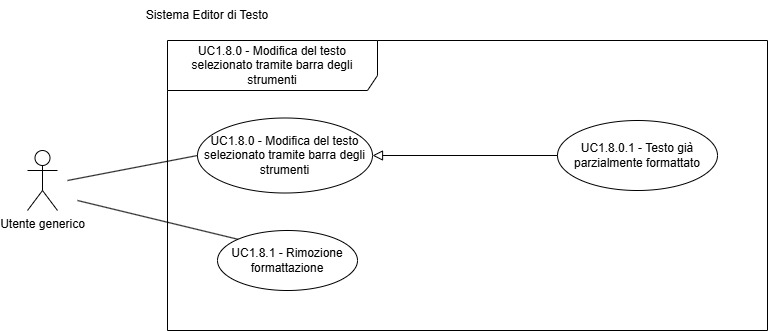
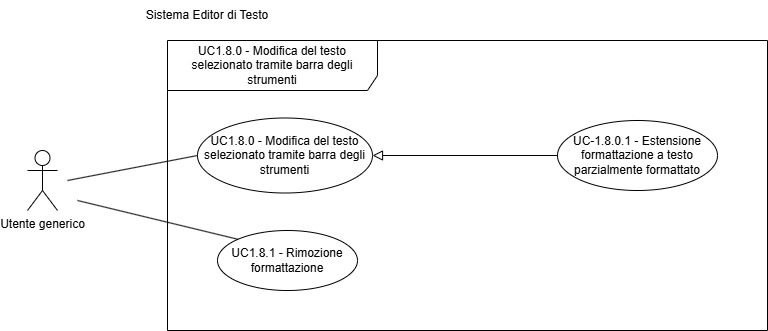
Mini fix

Changed region(s): [[0.75, 0.3927, 0.9375, 0.5438]]

diff --git a/src/2_RTB/Analisi_dei_Requisiti_v1.4.0.tex b/src/2_RTB/Analisi_dei_Requisiti_v1.4.0.tex
@@ -65,7 +65,7 @@
         \centering
         \begin{tabular}{|l|p{5cm}|}
             \hline
-            \textbf{Versione} & 1.4.0 \\
+            \textbf{Versione} & 1.4.1 \\
             \hline
             \textbf{Stato} & Da approvare \\
             \hline
@@ -97,7 +97,9 @@
         \hline
         \textbf{Versione} & \textbf{Data} & \textbf{Autore} & \textbf{Descrizione} & \textbf{Verifica} \\
         \hline
-        1.4.0 & 10/03/2026 & Giulia Barzon & Ultime correzioni ai requisiti & \\
+        1.4.1 & 11/03/2026 & Elisa Marchioro & Mini fix & \\
+        \hline
+        1.4.0 & 10/03/2026 & Giulia Barzon & Ultime correzioni ai requisiti & Elisa Marchioro \\
         \hline
         1.3.1 & 5/03/2026 & Elisa Marchioro & Mini fix & Matteo Cuogo\\
         \hline
